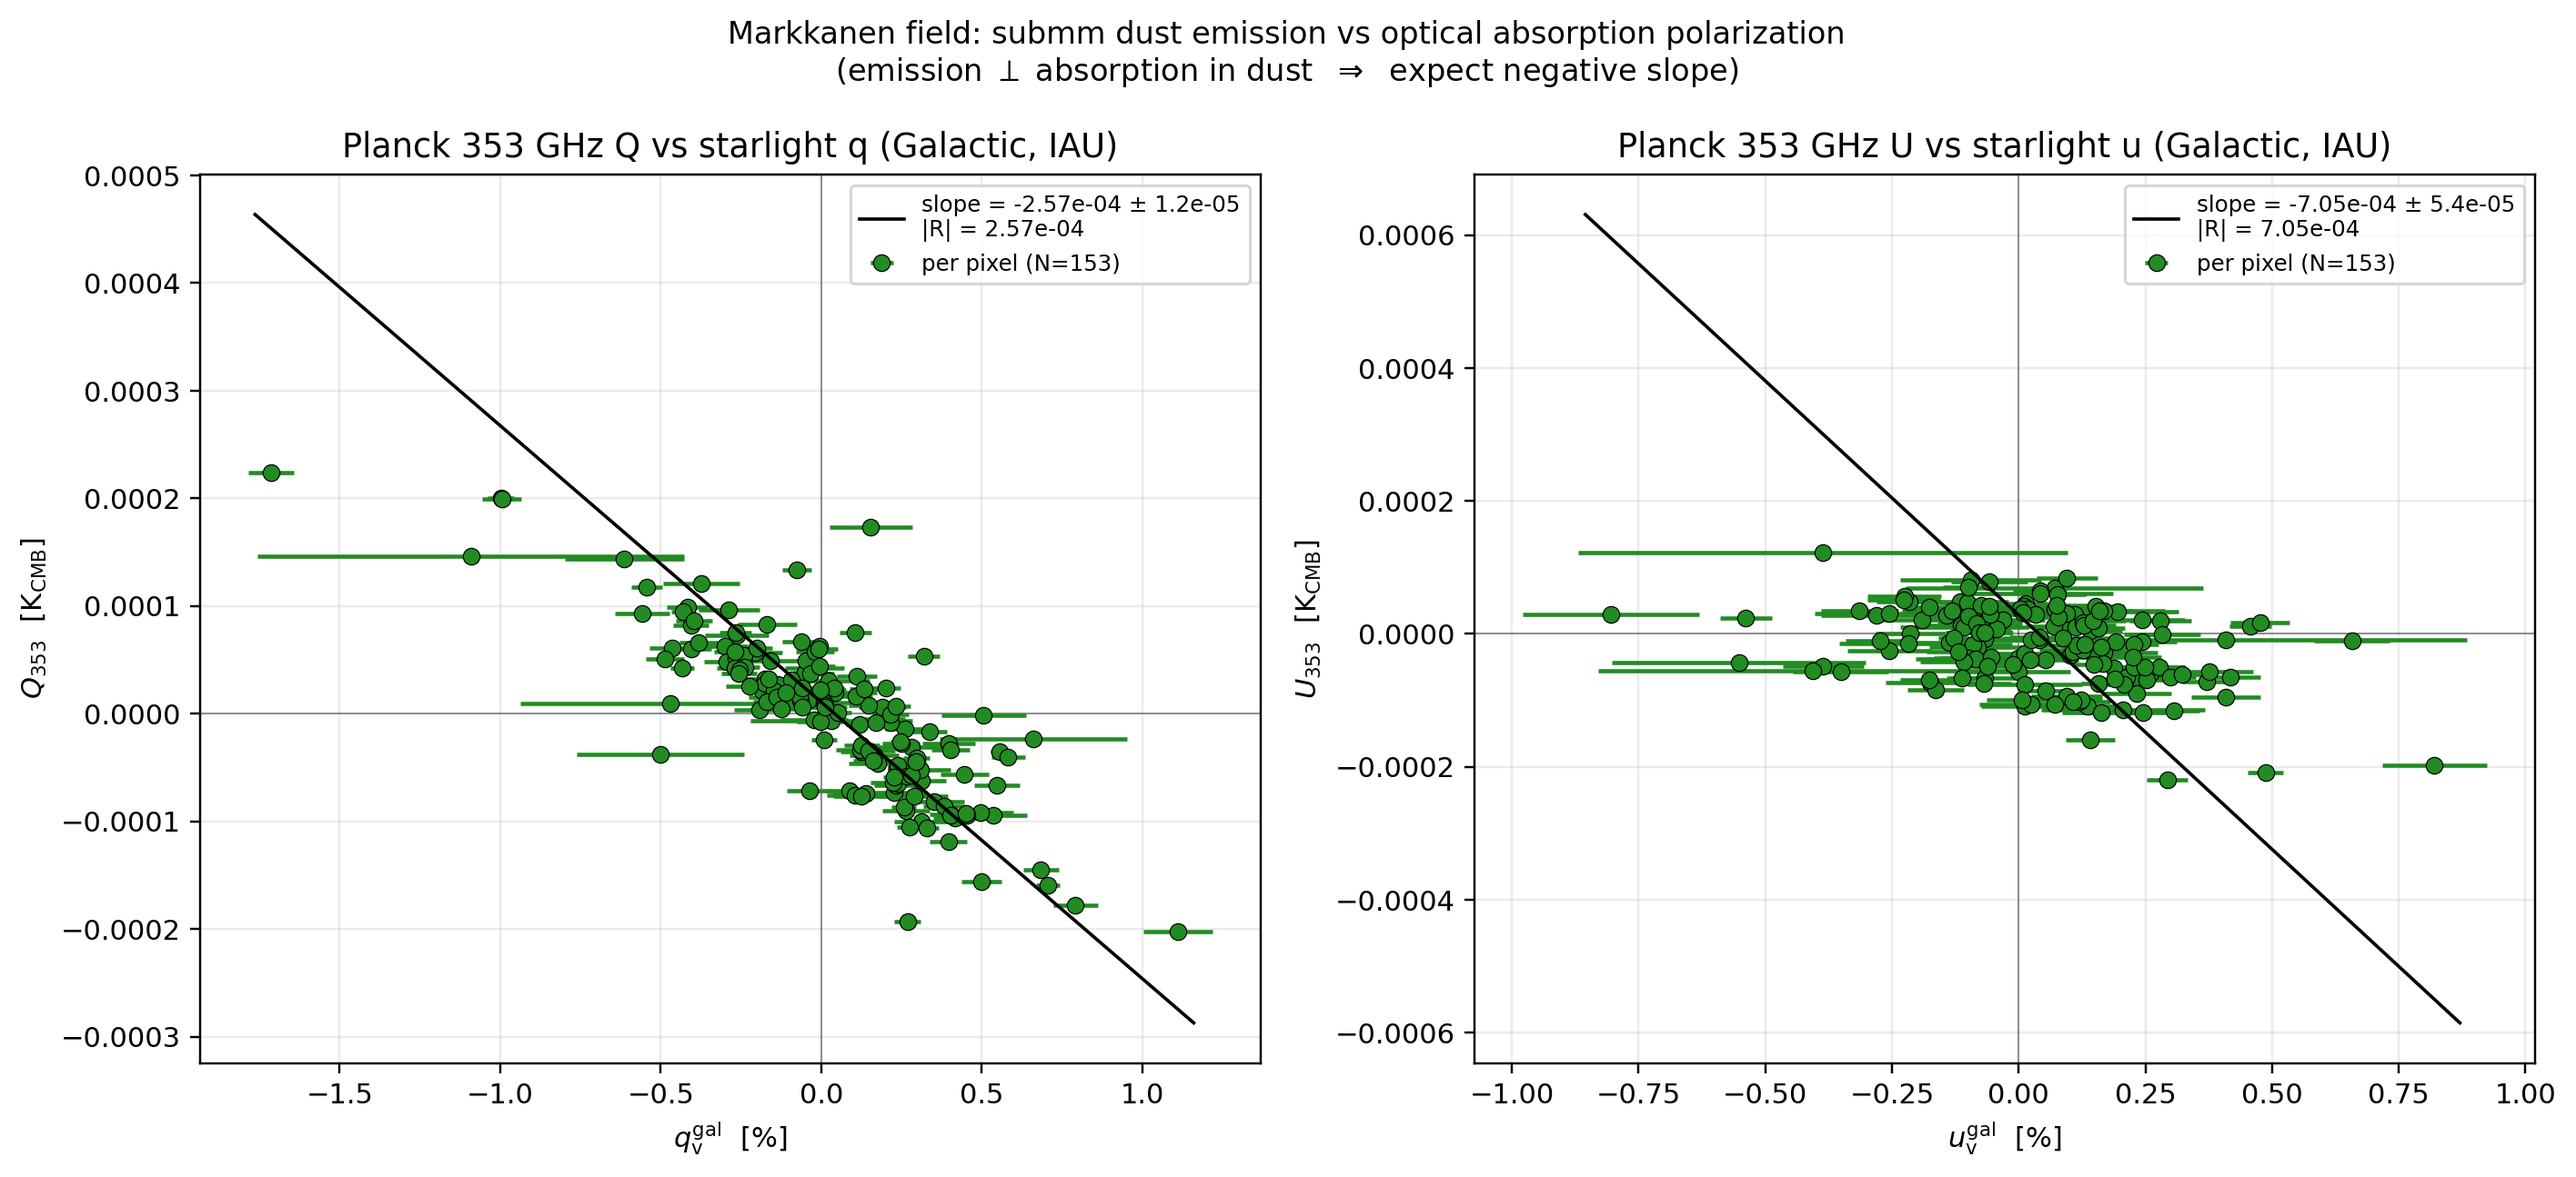
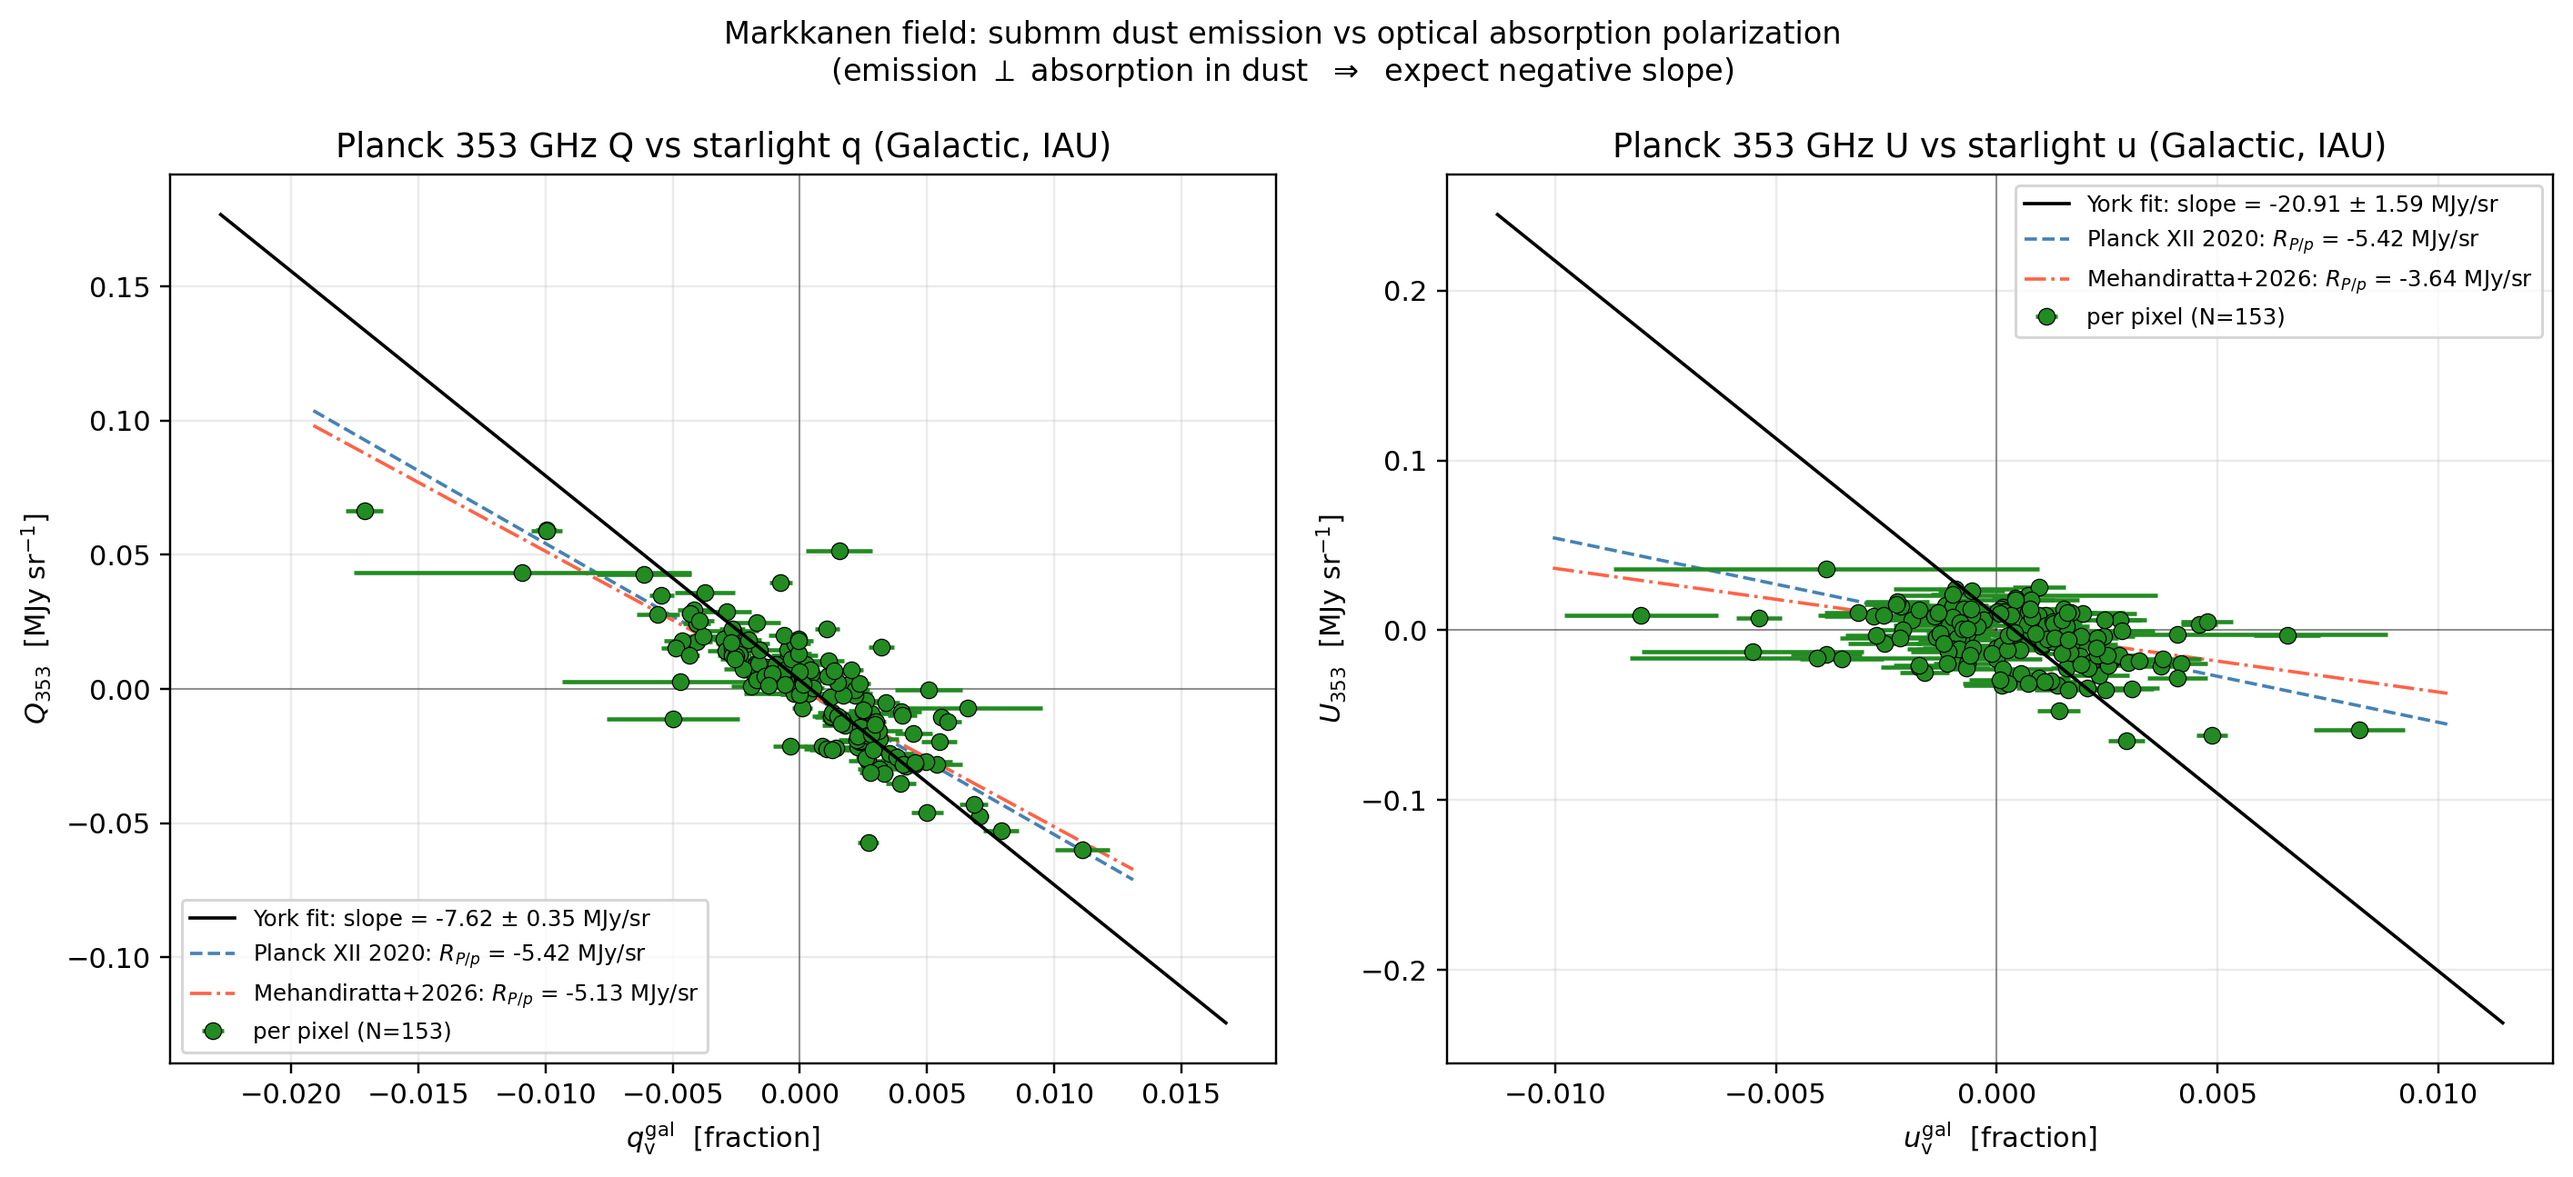
unit conversion to MJy/syr and fractional polarization

diff --git a/4_gaia/planck_scatter/planck_starlight_scatter.py b/4_gaia/planck_scatter/planck_starlight_scatter.py
@@ -70,6 +70,27 @@ OUT_DIR = os.path.expanduser(
 )
 
 FIG_DPI = 220
+
+
+# Unit conversion: K_CMB -> MJy/sr at 353 GHz (computed at run time).
+# Set to None to compute automatically via astropy; or hardcode a float.
+# The standard value is ~287.45 MJy/sr per K_CMB.
+KCMB_TO_MJYSR = None   # computed in main() and passed to plot_scatter()
+
+# Reference lines from the literature (plotted through the origin).
+# Slopes are in MJy/sr per unit fractional polarization (not percent).
+# Toggle either line off by setting the corresponding flag to False.
+SHOW_PLANCK_REFLINE      = True   # Planck Coll. XII 2020: R_P/p = -5.42 MJy/sr
+SHOW_MEHANDIRATTA_REFLINE = True  # Mehandiratta+2026: -5.13 (Q), -3.64 (U)
+
+# Planck XII 2020 all-sky R_P/p (same value on both panels)
+_PLANCK_SLOPE = -5.42          # MJy/sr
+
+# Mehandiratta+2026 per-panel slopes (Q panel, U panel)
+_MEHANDIRATTA_SLOPE_Q = -5.13  # MJy/sr
+_MEHANDIRATTA_SLOPE_U = -3.64  # MJy/sr
+# ---------------------------------------------------------------------------
+
 # Optional rebinning of stars into coarser HEALPix pixels for averaging.
 # The smoothed Planck map stays at native Nside (1024); we only change the
 # pixelization used to group stars when computing per-pixel weighted means.
@@ -303,29 +324,50 @@ def load_robopol(path):
 
 
 
-def plot_scatter(paired, pix_avg, outfile):
-    """Two-panel Mehandiratta-style scatter with York fit."""
+def plot_scatter(paired, pix_avg, outfile, kcmb_to_mjysr):
+    """Two-panel Mehandiratta-style scatter with York fit.
+
+    Planck Q/U are converted from K_CMB to MJy/sr for the plot and the fit.
+    Optical q/u are converted from percent to fraction for the plot and fit,
+    so the fit slope is directly in MJy/sr.
+    CSV outputs are NOT changed (they stay in K_CMB and percent).
+    """
     fig, axes = plt.subplots(1, 2, figsize=(13, 6))
 
+    # Reference slopes in MJy/sr per unit fraction; one entry per panel.
+    ref_slopes = [
+        # (planck_ref_slope, mehandiratta_slope)
+        (_PLANCK_SLOPE, _MEHANDIRATTA_SLOPE_Q),   # Q panel
+        (_PLANCK_SLOPE, _MEHANDIRATTA_SLOPE_U),   # U panel
+    ]
+
     panels = [
-        (axes[0], "q_gal", "sq_gal", r"$q_{\rm v}^{\rm gal}$  [%]",
-         "Q_planck_KCMB", r"$Q_{\rm 353}$  [K$_{\rm CMB}$]"),
-        (axes[1], "u_gal", "su_gal", r"$u_{\rm v}^{\rm gal}$  [%]",
-         "U_planck_KCMB", r"$U_{\rm 353}$  [K$_{\rm CMB}$]"),
+        (axes[0], "q_gal", "sq_gal",
+         r"$q_{\rm v}^{\rm gal}$  [fraction]",
+         "Q_planck_KCMB",
+         r"$Q_{\rm 353}$  [MJy sr$^{-1}$]",
+         ref_slopes[0]),
+        (axes[1], "u_gal", "su_gal",
+         r"$u_{\rm v}^{\rm gal}$  [fraction]",
+         "U_planck_KCMB",
+         r"$U_{\rm 353}$  [MJy sr$^{-1}$]",
+         ref_slopes[1]),
     ]
 
     fit_summary = {}
-    for ax, qcol, scol, qlabel, planckcol, planckname in panels:
-        
-        # per-pixel (strong)
-        ax.errorbar(pix_avg[qcol], pix_avg[planckcol],
-                    xerr=pix_avg[scol], fmt="o", ms=6,
+    for ax, qcol, scol, qlabel, planckcol, planckname, (sl_planck, sl_meh) in panels:
+
+        # Convert units for plotting/fitting only (do not modify the DataFrames).
+        x_data = pix_avg[qcol].to_numpy(float) / 100.0          # percent -> fraction
+        x_err  = pix_avg[scol].to_numpy(float) / 100.0
+        y_data = pix_avg[planckcol].to_numpy(float) * kcmb_to_mjysr  # K_CMB -> MJy/sr
+
+        # per-pixel points
+        ax.errorbar(x_data, y_data,
+                    xerr=x_err, fmt="o", ms=6,
                     color="forestgreen", alpha=1.0, mec="black", mew=0.4,
                     label=f"per pixel (N={len(pix_avg)})", zorder=3)
 
-        x_data = pix_avg[qcol].to_numpy(float)
-        y_data = pix_avg[planckcol].to_numpy(float)
-        x_err = pix_avg[scol].to_numpy(float)
         y_err_dummy = np.full_like(y_data,
                                    max(0.01 * np.nanstd(y_data), 1e-12))
         a, b, sa, sb_formal, chi2_red = york_fit(x_data, y_data, x_err,
@@ -343,10 +385,23 @@ def plot_scatter(paired, pix_avg, outfile):
                     s_res = np.sqrt(np.sum(res ** 2) / (n_ok - 2))
                     sb_resid = s_res / np.sqrt(Sxx)
                     sb = max(sb_formal, sb_resid)
-            xx = np.linspace(np.nanmin(x_data) - 0.05,
-                             np.nanmax(x_data) + 0.05, 50)
+            x_pad = 0.2 * (np.nanmax(x_data) - np.nanmin(x_data))
+            xx = np.linspace(np.nanmin(x_data) - x_pad,
+                             np.nanmax(x_data) + x_pad, 50)
             ax.plot(xx, a + b * xx, color="black", lw=1.2, zorder=4,
-                    label=f"slope = {b:.2e} \u00b1 {sb:.1e}\n|R| = {abs(b):.2e}")
+                    label=f"York fit: slope = {b:.2f} \u00b1 {sb:.2f} MJy/sr")
+
+        # Reference lines through the origin.
+        x_ref = np.array([np.nanmin(x_data) - 0.002,
+                          np.nanmax(x_data) + 0.002])
+        if SHOW_PLANCK_REFLINE:
+            ax.plot(x_ref, sl_planck * x_ref,
+                    color="steelblue", lw=1.2, ls="--", zorder=2,
+                    label=fr"Planck XII 2020: $R_{{P/p}}$ = {sl_planck:.2f} MJy/sr")
+        if SHOW_MEHANDIRATTA_REFLINE:
+            ax.plot(x_ref, sl_meh * x_ref,
+                    color="tomato", lw=1.2, ls="-.", zorder=2,
+                    label=fr"Mehandiratta+2026: $R_{{P/p}}$ = {sl_meh:.2f} MJy/sr")
 
         ax.axhline(0, color="k", lw=0.5, alpha=0.5)
         ax.axvline(0, color="k", lw=0.5, alpha=0.5)
@@ -441,10 +496,20 @@ def main():
           f"({(paired['pix'].value_counts() > 1).sum()} pixels with >1 star)")
 
     print("\n[4/4] Plotting and writing outputs")
+
+    # Compute K_CMB -> MJy/sr at 353 GHz using astropy thermodynamic equivalency.
+    global KCMB_TO_MJYSR
+    if KCMB_TO_MJYSR is None:
+        from astropy.cosmology import Planck15
+        freq_353 = 353e9 * u.Hz
+        equiv = u.thermodynamic_temperature(freq_353, Planck15.Tcmb0)
+        KCMB_TO_MJYSR = float((1.0 * u.K).to(u.MJy / u.sr, equivalencies=equiv).value)
+    print(f"  K_CMB -> MJy/sr at 353 GHz: {KCMB_TO_MJYSR:.4f} MJy/sr per K_CMB")
+
     tag = _bin_tag(map_nside, effective_bin_nside)
     out_png = os.path.join(OUT_DIR,
                            f"markkanen_planck_starlight_scatter{tag}.png")
-    fits = plot_scatter(paired, pix_avg, out_png)
+    fits = plot_scatter(paired, pix_avg, out_png, KCMB_TO_MJYSR)
     paired.to_csv(os.path.join(OUT_DIR,
                                f"planck_starlight_paired_robopol{tag}.csv"),
                   index=False)
@@ -459,7 +524,7 @@ def main():
           f"({len(pix_avg)} rows)")
 
     print("\n" + "=" * 70)
-    print("Fit summary  (slopes from per-pixel data)")
+    print("Fit summary  (slopes from per-pixel data, units: MJy/sr per fraction)")
     print("=" * 70)
     for label, key, sign in [("Q vs q", "q_gal", "Q"), ("U vs u", "u_gal", "U")]:
         f = fits[key]
